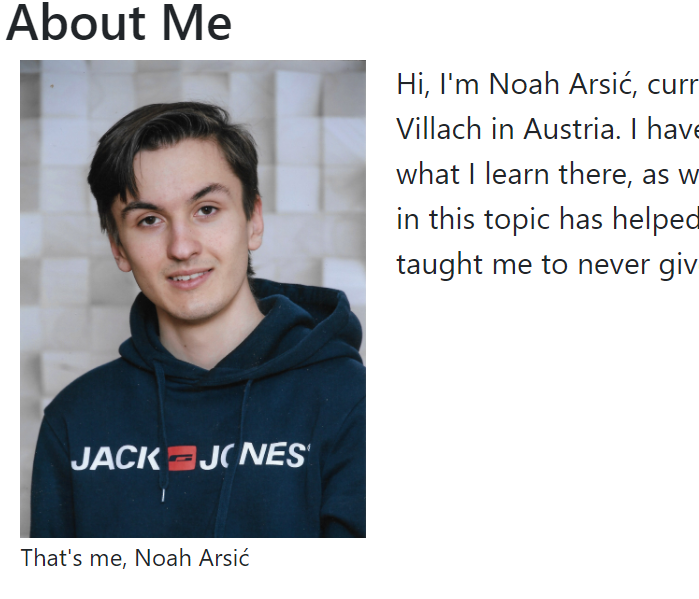
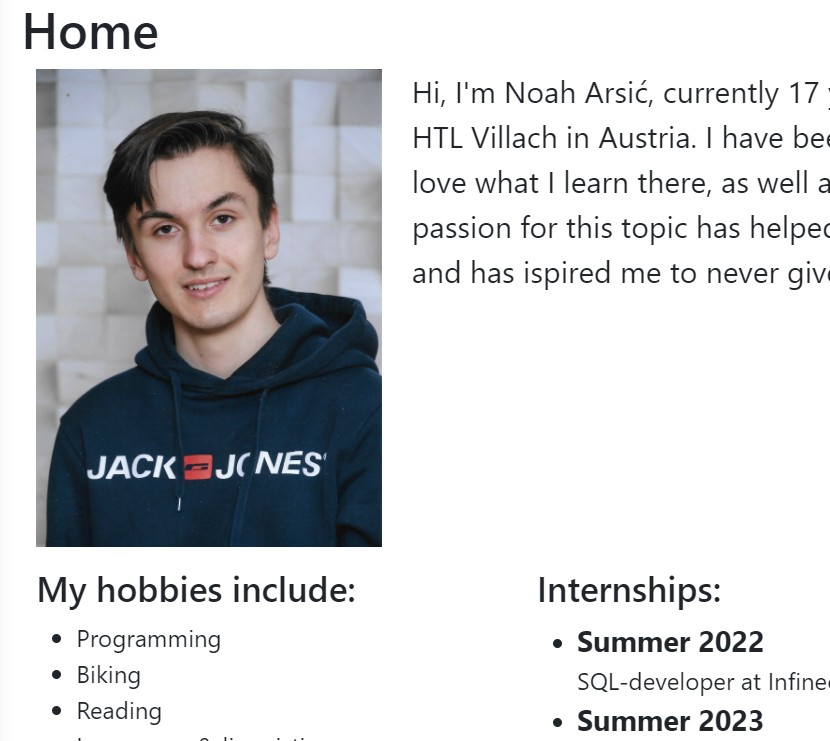
Updated the portfolio

diff --git a/src/components/Navbar.js b/src/components/Navbar.js
@@ -22,12 +22,20 @@ export default function Navbar() {
                         </Link>
                     </div>
                 </nav>
-                <a href="https://github.com/Noahgamerrr" 
-                   className="d-none d-lg-inline position-fixed bottom-1"
-                   style={{"width": "3%"}}
-                >
-                    <img src="./images/github.svg" alt="github" style={{width: "100%"}}/>
-                </a>
+                <div>
+                    <a href="https://github.com/Noahgamerrr" 
+                    className="d-none d-lg-inline position-fixed bottom-1"
+                    style={{"width": "3%"}}
+                    >
+                        <img src="./images/github.svg" alt="GitHub" style={{width: "100%"}}/>
+                    </a>
+                    <a href="https://www.linkedin.com/in/arsicn/" 
+                    className="d-none d-lg-inline position-fixed bottom-1"
+                    style={{"width": "3%", marginLeft: "4%"}}
+                    >
+                        <img src="./images/linkedin.svg" alt="LinkedIn" style={{width: "100%"}}/>
+                    </a>
+                </div>
             </div>
             <Outlet />
         </>

diff --git a/src/components/Footer.js b/src/components/Footer.js
@@ -1,11 +1,15 @@
 export default function Footer() {
     return (
-        <div className="bg-dark footer">
-            <a href="https://github.com/Noahgamerrr" 
-                className="d-lg-none"
-                style={{"width": "2.5rem"}}
-            >
-                <img src="./images/github.svg" alt="github" className="github-img"/>
+        <div className="bg-dark footer d-lg-none d-flex justify-content-around position-fixed bottom-0 py-2">
+            <a href="https://github.com/Noahgamerrr" className="d-lg-none d-inline-block" style={{margin: 0}}>
+                <img src="./images/github.svg" alt="GitHub" className="github-img"
+                    style={{width: "12vw", margin: "0", padding: "0"}}
+                />
+            </a>
+            <a href="https://www.linkedin.com/in/arsicn/" className="d-lg-none d-inline-block" style={{margin: 0}}>
+                <img src="./images/linkedin.svg" alt="LinkedIn" className="github-img"
+                    style={{width: "12vw", margin: "0", padding: "0"}}
+                />
             </a>
         </div>
     )

diff --git a/src/pages/Home.js b/src/pages/Home.js
@@ -49,8 +49,12 @@ export default function Home() {
                         <h3>Internships:</h3>
                         <ul>
                             <li>
-                                <p className="list-title">Summer 2023</p>
+                                <p className="list-title">Summer 2022</p>
                                 <p>SQL-developer at Infineon Technologies</p>
+                            </li>
+                            <li>
+                                <p className="list-title">Summer 2023</p>
+                                <p>Python-developer at Infineon Technologies</p>
                             </li>
                         </ul>
                     </div>

diff --git a/src/App.js b/src/App.js
@@ -13,11 +13,11 @@ import Error404 from './pages/Error404';
 
 function App() {
   return (
-    <div className='h-lg-100 position-relative'>
+    <div className='h-100 position-relative'>
       <HashRouter>
         <Header/>
         <div className="container-fluid">
-          <div className='row h-lg-100'>
+          <div className='row h-100'>
             <Navbar/>
             <main className='col-lg-10 ps-lg-4 pt-3 pt-lg-5 pb-4 mb-5 mb-lg-0'>
               <Routes>

diff --git a/src/pages/Error404.js b/src/pages/Error404.js
@@ -1,5 +1,11 @@
 export default function Error404() {
     return (
-        <h1>Error 404</h1>
+        <>
+            <h1>Error 404</h1>
+            <p>
+                Whoops, seems like you tried to access a sub-page that doesn't exist.
+                Please click on a link inside the navbar to navigate through this portfolio.
+            </p>
+        </>
     )
 }
